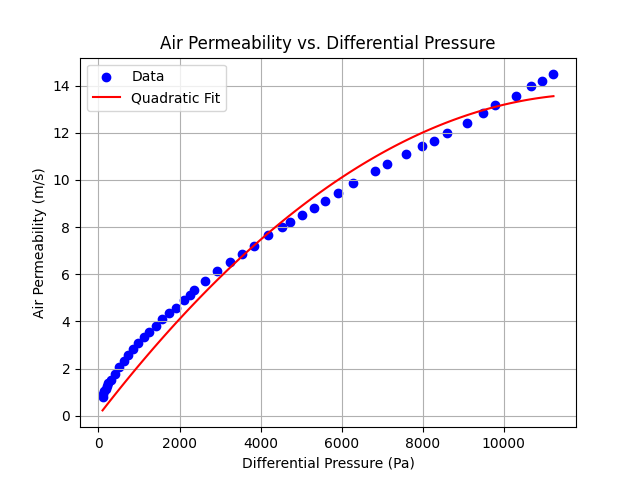
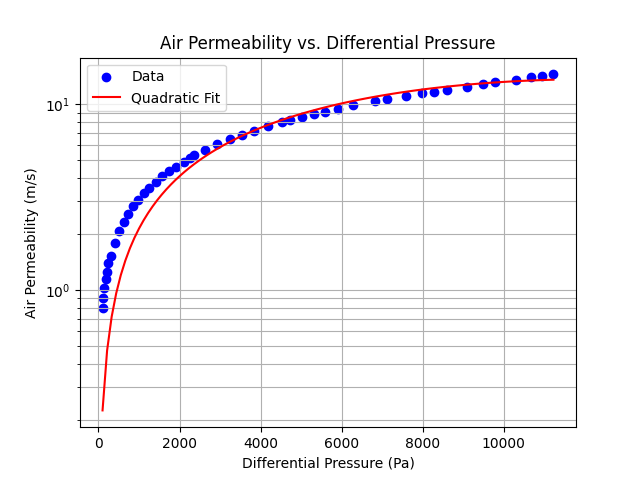
Coeffcicient evaluation for PMMOD 8 in LS-Dyna

diff --git a/scripts/Parachute_tools/porosity_evaluation.py b/scripts/Parachute_tools/porosity_evaluation.py
@@ -6,6 +6,11 @@ import matplotlib.pyplot as plt
 DATA_FILE = Path(__file__).parent / "Permeability_MIL-C-7020-III.csv"
 IMAGE_FILE = Path(__file__).parent / "permeability_fit.png"
 
+FABRIC_THICKNESS = 6*10**-5 # m, thickness of fabric used on Proto Parachute
+AIR_DYNAMIC_VISCOSITY = 1.81*10**-5 # kg/(m·s), dynamic viscosity of air at room temperature
+E_POROSITY = 1.0 # Porosity of the fabric, estimated from literature
+AIR_DENSITY = 1.225 # kg/m³, density of air at sea level
+
 def fit_quadratic(x: np.ndarray, y: np.ndarray, through_origin: bool = True) -> np.ndarray:
 
     if through_origin:
@@ -43,8 +48,13 @@ def main() -> None:
     a, b, c = fit_quadratic(x, y, through_origin=True)
     y_pred = a * x**2 + b * x + c
 
+    permeability = FABRIC_THICKNESS * AIR_DYNAMIC_VISCOSITY / b
+    forchheimer_factor = (a * np.sqrt(permeability)) / (AIR_DYNAMIC_VISCOSITY * AIR_DENSITY * E_POROSITY)
+
     print(f"Model:  v(ΔP) = {a:.6e}·ΔP² + {b:.6e}·ΔP + {c:.6e}")
     print(f"R²    : {root_mean_square_error(y, y_pred):.6f}")
+    print(f"Permeability: {permeability:.6e} m²")
+    print(f"Forchheimer Factor: {forchheimer_factor:.6e} m⁻¹")
     plot_comparison(x, y, a, b, c)
 
 